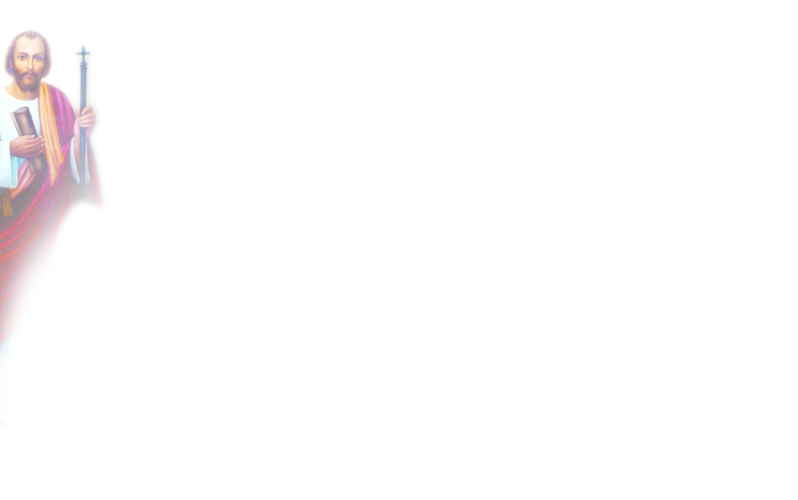
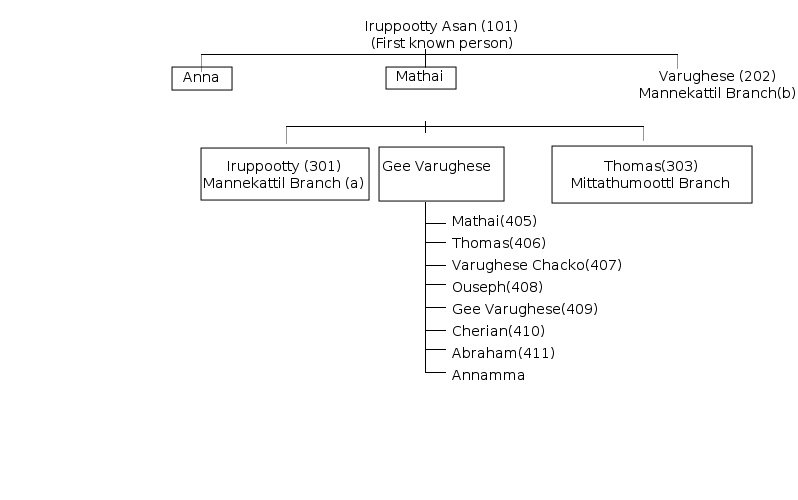
after layout change

diff --git a/public/stylesheets/family.css b/public/stylesheets/family.css
@@ -1,29 +1,52 @@
 body {
-    background-color:#000;
+    background-color:#fff;
     background-image:url('../images/bg.png');
     background-repeat:repeat-x;
-    color:#b9daf1;
+    color:#fff;
     font-family:Serif, Arial;
     font-size:14px;
 }
 body a {
-    color:white;
+    color:#000;
 }
 body a:hover {
     text-decoration:underline;
 }
-h2 {
-    font-family:Serif, Arial;
-    font-size:14px;
-    font-weight:bold;
-    padding:0px;
-    margin:0px;
-    text-align:center;
-    margin:auto;
+
+#church_image {
+   background-image:url('../images/bg_2.png');
+   background-repeat:no-repeat;
+   top:0px;
+   left:0px;
+   width:800px;
+   height:485px;
+   position:absolute;
+   z-index:-2;
 }
-h2.box {
-    color:white;
-    background-color:#4587ba;
+#saint_image {
+   background-image:url('../images/saint.png');
+   background-repeat:no-repeat;
+   top:10px;
+   left:170px;
+   width:188px;
+   height:231px;
+   position:absolute;
+   z-index:-1;
+}
+
+h1 {
+    color:#215384;
+    font-size:50px;
+    font-weight:bold;
+
+}
+
+h5 {
+    font-family:Serif, Arial;
+    font-size:18px;
+    font-weight:bold;
+    text-align:right;
+    color:blue;
 }
 
 .center {
@@ -32,111 +55,157 @@ h2.box {
     text-align:center;
 }
 
-#container {
-    background-image:url('../images/container_bg.png');
-    background-color:#000;
-    margin:auto;
-    text-align:center;
-    width:800px;
-    border:1px solid white;
-    margin:auto;
-}
-
-#left_top, #right_top, #left_top1, #right_top1 {
-    float:left;
-    align:left;
-    text-align:left;
-}
-
-#left_top {
-    background-image:url('../images/1.1.png');
-    width:414px;
-    height:100px;
-}
-
-#right_top {
-    background-image:url('../images/1.2.png');
-    width:384px;
-    height:100px;
-    color:#3a8ac4;
-}
-
-#left_top1 {
-    background-image:url('../images/2.1.png');
-    width:414px;
-    height:169px;
-}
-
-#right_top1 {
-    background-image:url('../images/2.2.png');
-    width:384px;
-    height:169px;
+#menu_container {
+    width:100%;
+    height:65px;
 }
 #menu {
-background-image:url('../images/menu_bg.png');
-background-repeat:none;
-height:29px;
-width:798px;
-border:none;
-margin:0px;
-padding:0px;
+    margin-left:auto;
+    margin-right:0px;
+    height:65px;
+    width:800px;
 }
 
-#menu a img{
-    border:none;
-}
-#container div#menu a img {
-    padding:0px;
+#menu div.mnu a {
+    background-image:url('../images/menu/new/mnu_normal_vertical_piece.png');
+    background-repeat:repeat-x;
+    width:129px;
+    height:63px;
     margin:0px;
-    border:none;
-    text-align:left;
-    float:left;
-    color:
-}
-#footer {
-
+    padding:0px;
+    padding-top:20px;
+    text-decoration:none;
     color:blue;
-    background-color:#fff;
-
+    text-align:center;
+    float:left;
 }
+#menu div.mnu_active a{
+    text-align:center;
 
-#home_page_content {
-    background-image:url('../images/home_image_new.png');
+    background-image:url('../images/menu/new/mnu_active.png');
     background-repeat:no-repeat;
-    margin-top:0px;
-    height:600px;
-    background-color:#021c2e;
+    width:129px;
+    height:63px;
+    margin:0px;
+    padding:0px;
+    padding-top:20px;
+    text-decoration:none;
+    color:#000;
+    text-align:center;
+    float:left;
+
+
+
+
 }
+
+#menu div.mnu a:hover {
+    color:#000;
+    background-image:url('../images/menu/new/mnu_normal_vertical_piece_hover.png');
+    background-repeat:repeat-x;
+}
+
+
+#menu div.menu_separator {
+    float:left;
+    width:1px;
+    height:63px;
+    background-image:url('../images/menu/new/mnu_separator.png');
+    background-repeat:no-repeat;
+}
+#menu div.menu_left {
+    float:left;
+    width:10px;
+    height:63px;
+    background-image:url('../images/menu/new/menu_left.png');
+    background-repeat:no-repeat;
+}
+#menu div.menu_right {
+    float:left;
+    width:10px;
+    height:63px;
+    background-image:url('../images/menu/new/menu_right.png');
+    background-repeat:no-repeat;
+}
+
+.login {
+    text-align:right;
+    margin-right:15px;
+    text-decoration:none;
+    float:right;
+    padding:0px;
+    padding-left:20px;
+    padding-right:20px;
+    color:red;
+}
+.login a {
+    text-align:right;
+    margin-right:15px;
+    text-decoration:none;
+    float:right;
+    padding:0px;
+    padding-left:20px;
+    padding-right:20px;
+}
+
+.login a:hover {
+    background-color:#c1d7e7;
+    color:#000;
+    text-decoration:none;
+}
+
+
+/* ------------------------*/
+
+
 #family_container {
-    width:140px;
+    width:180px;
     height:200px;
     border-style:solid;
     border-width:1px;
     border-color:#4587ba;
     float:left;
     padding:5px;
-    margin-left:37px;
+    margin-left:5px;
     text-align:left;
-    background-color:black;
-    opacity:0.4;
-    filter:alpha(opacity=40);
+    background-color:#fff;
+    opacity:0.6;
+    filter:alpha(opacity=60);
+    top:310px;
+    left:0px;
+    position:absolute;
 }
 #family_container h2.box a img{
     padding:0px;
     margin:0px;
     border:none;
     text-decoration:none;
-
 }
 
 #family_container h2.box, #family_container h2.box a {
     text-decoration:none;
     padding:0px;
     margin:0px;
+    margin-left:1px;
     border:none;
+    color:blue;
+}
+
+#family_container table tbody tr td {
+    font-size:13px;
+    height:20px;
+    width:178px;
+    border:0px;
+    border-bottom:solid black 1px;
 }
 #family_container table tbody tr td a {
-    font-size:11px;
+    font-size:13px;
+    width:180px;
+}
+#family_container table tbody tr td a:hover {
+    background-color:blue;
+    font-size:13px;
+    width:178px;
 }
 
 
@@ -183,12 +252,14 @@ padding:0px;
 #home_page_description {
     float:left;
     text-align:justify;
-    width:410px;
-    margin-left:30px;
-    margin-top:100px;
+    width:700px;
+    margin-left:180px;
+    margin-top:50px;
 }
 #home_page_description p{
-    text-indent:50px;
+    text-indent:0px;
+    color:black;
+    font-size:14px;
 }
 
 .full_width_div {
@@ -260,12 +331,17 @@ input, textarea {
 
 .LongDescription {
     text-align:left;
+    width:80%;
     margin:30px;
-    text-justify:justify;
+    margin-left:5%;
+    text-align:justify;
+    color:blue;
 }
 .LongDescription h2 {
     padding-top:30px;
     text-align:left;
+    color:#000;
+    text-align:justify;
 }
 h2.box a {
     padding:0px;
@@ -305,20 +381,33 @@ img {
     padding:0px;;
     margin:0px;
 }
+
+
 #family_container table tbody tr td a, #events_container table tbody tr td a {
-    color:#4587ba;
+    color:#000;
     text-decoration:none;
 }
 
 #family_container table tbody tr td a:hover, #events_container table tbody tr td a:hover {
-    color:white;
+    color:#fff;
     text-decoration:none;
 }
 .general_description_right {
  position:absolute;
- left:500px;
+ left:600px;
  top:400px;
  width:400px;
  text-align:justify;
+}
+
+
+.committe_photo_div {
+    text-align:center;
+    width:120px;
+    border:solid silver 1px;
+    background-color:#fff;
+    margin:2px;
+    color:#000;
+
 }
 
